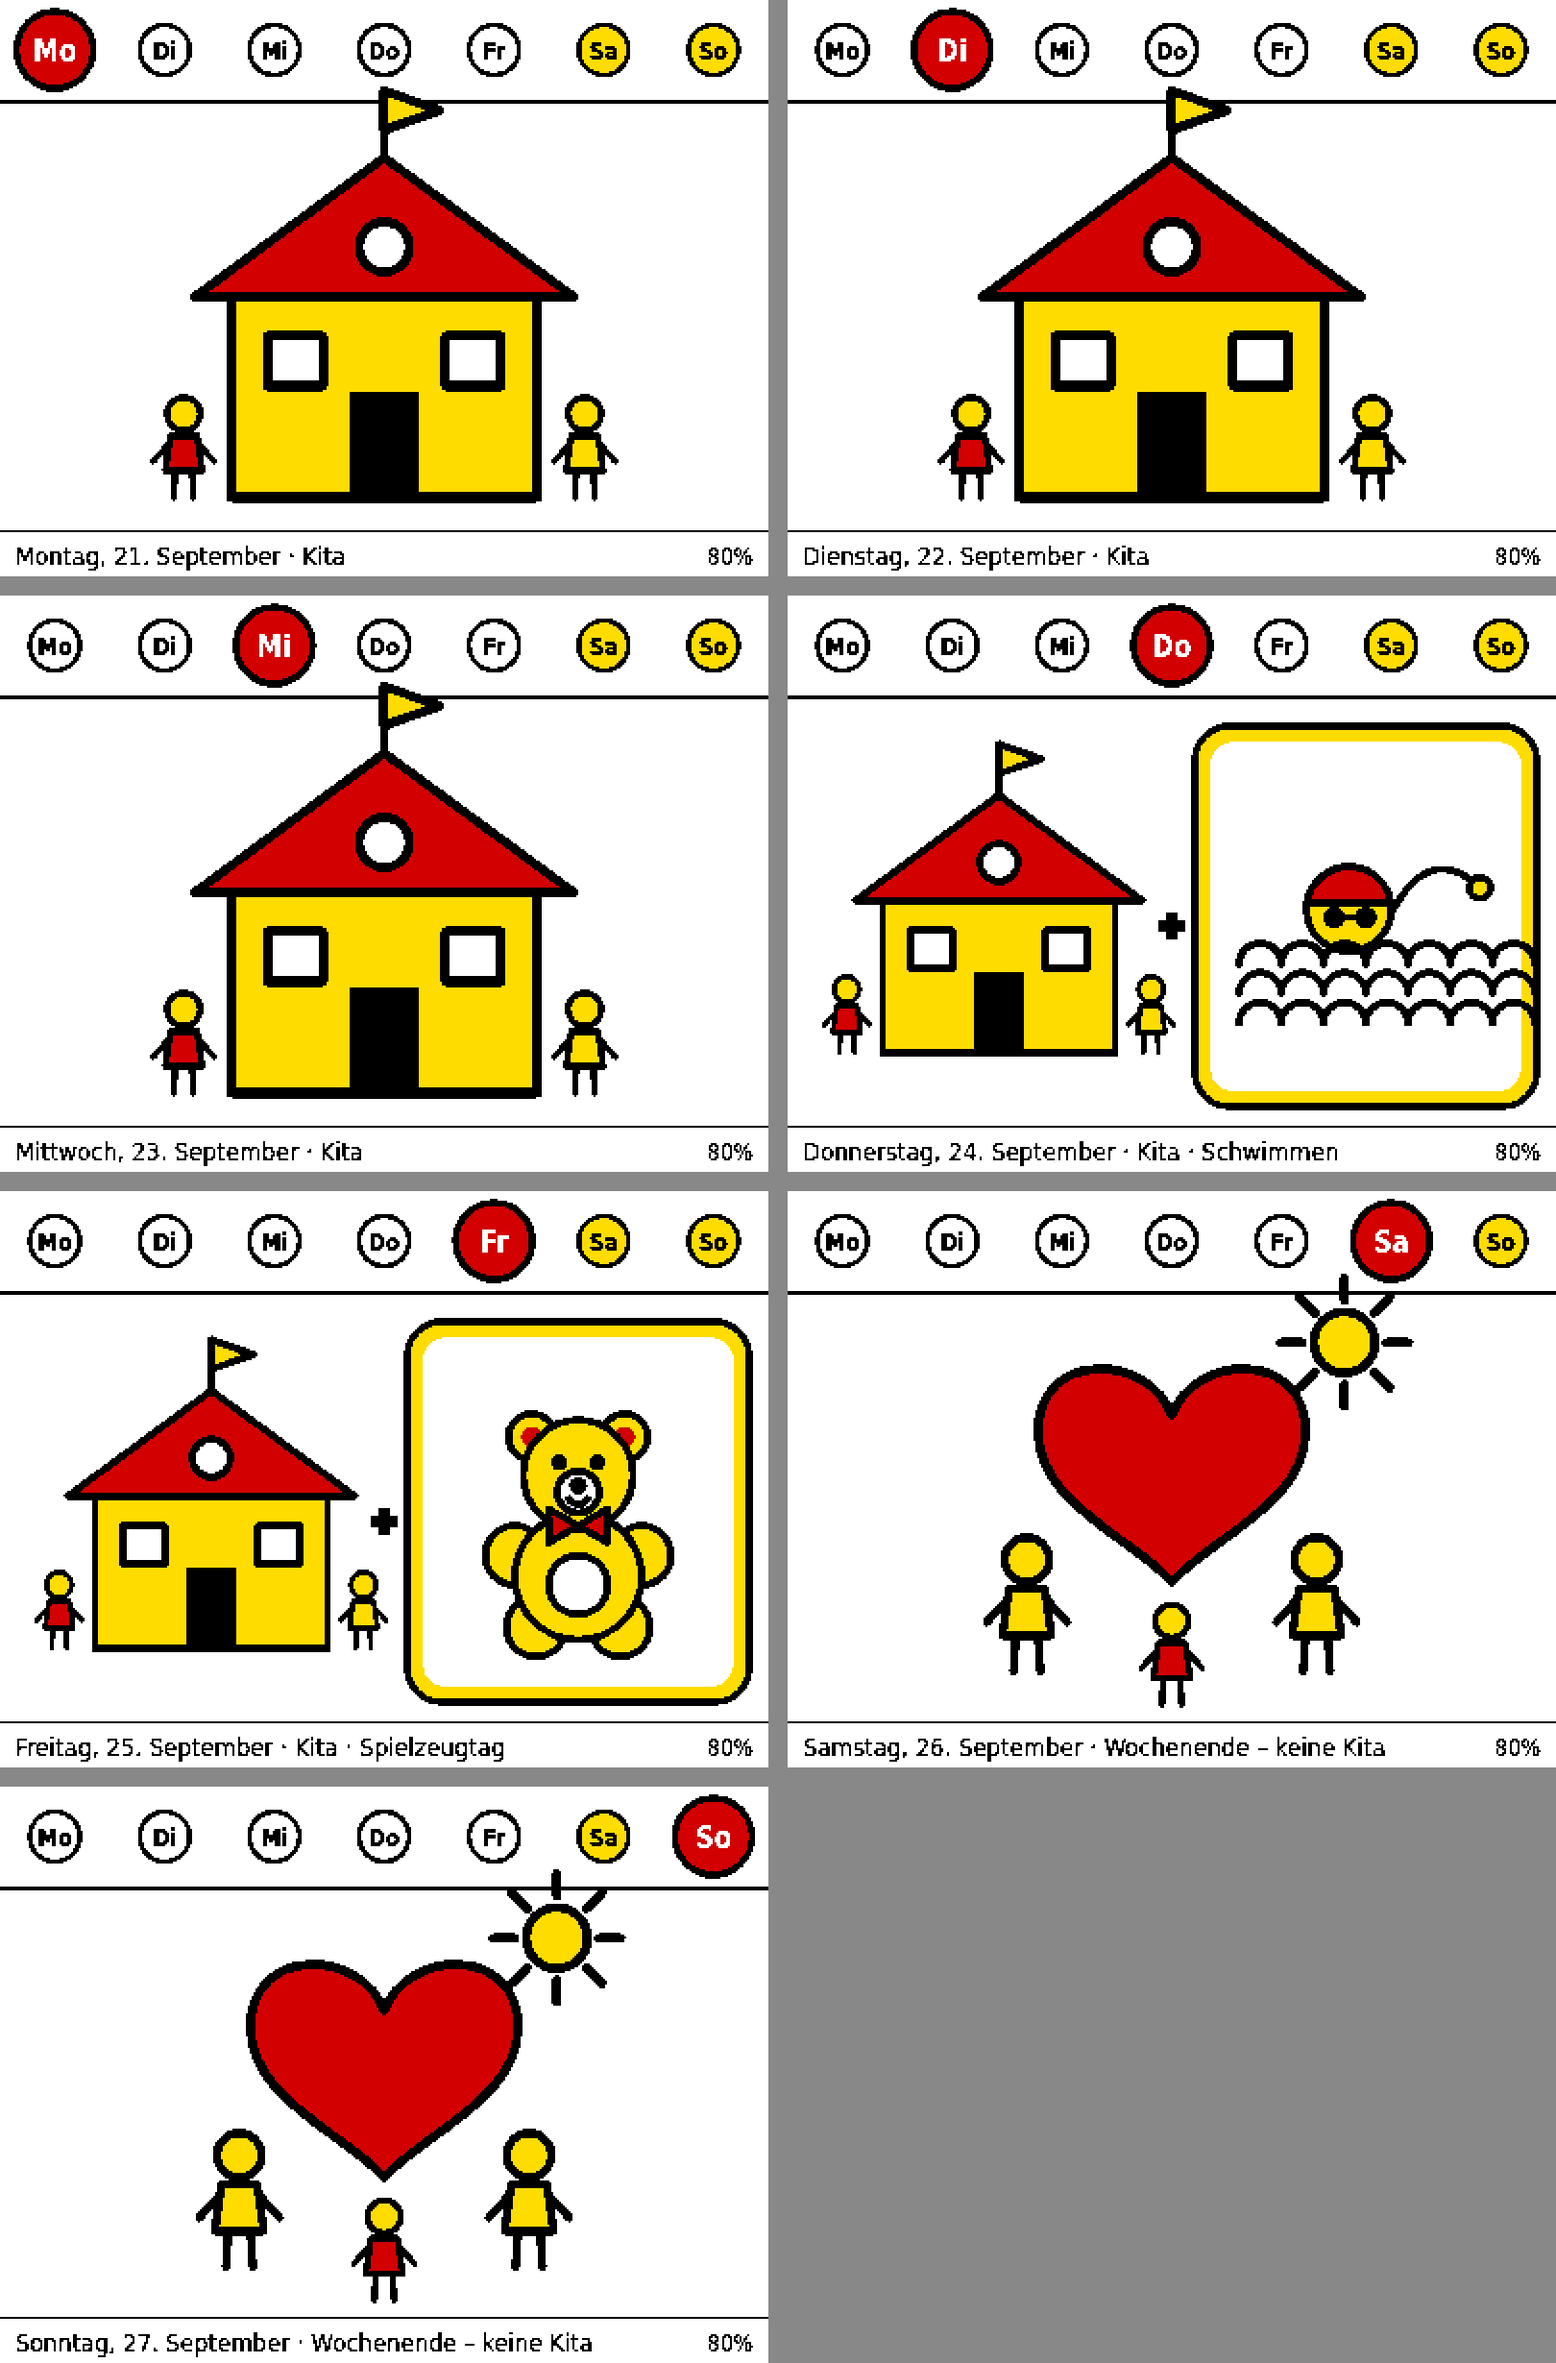
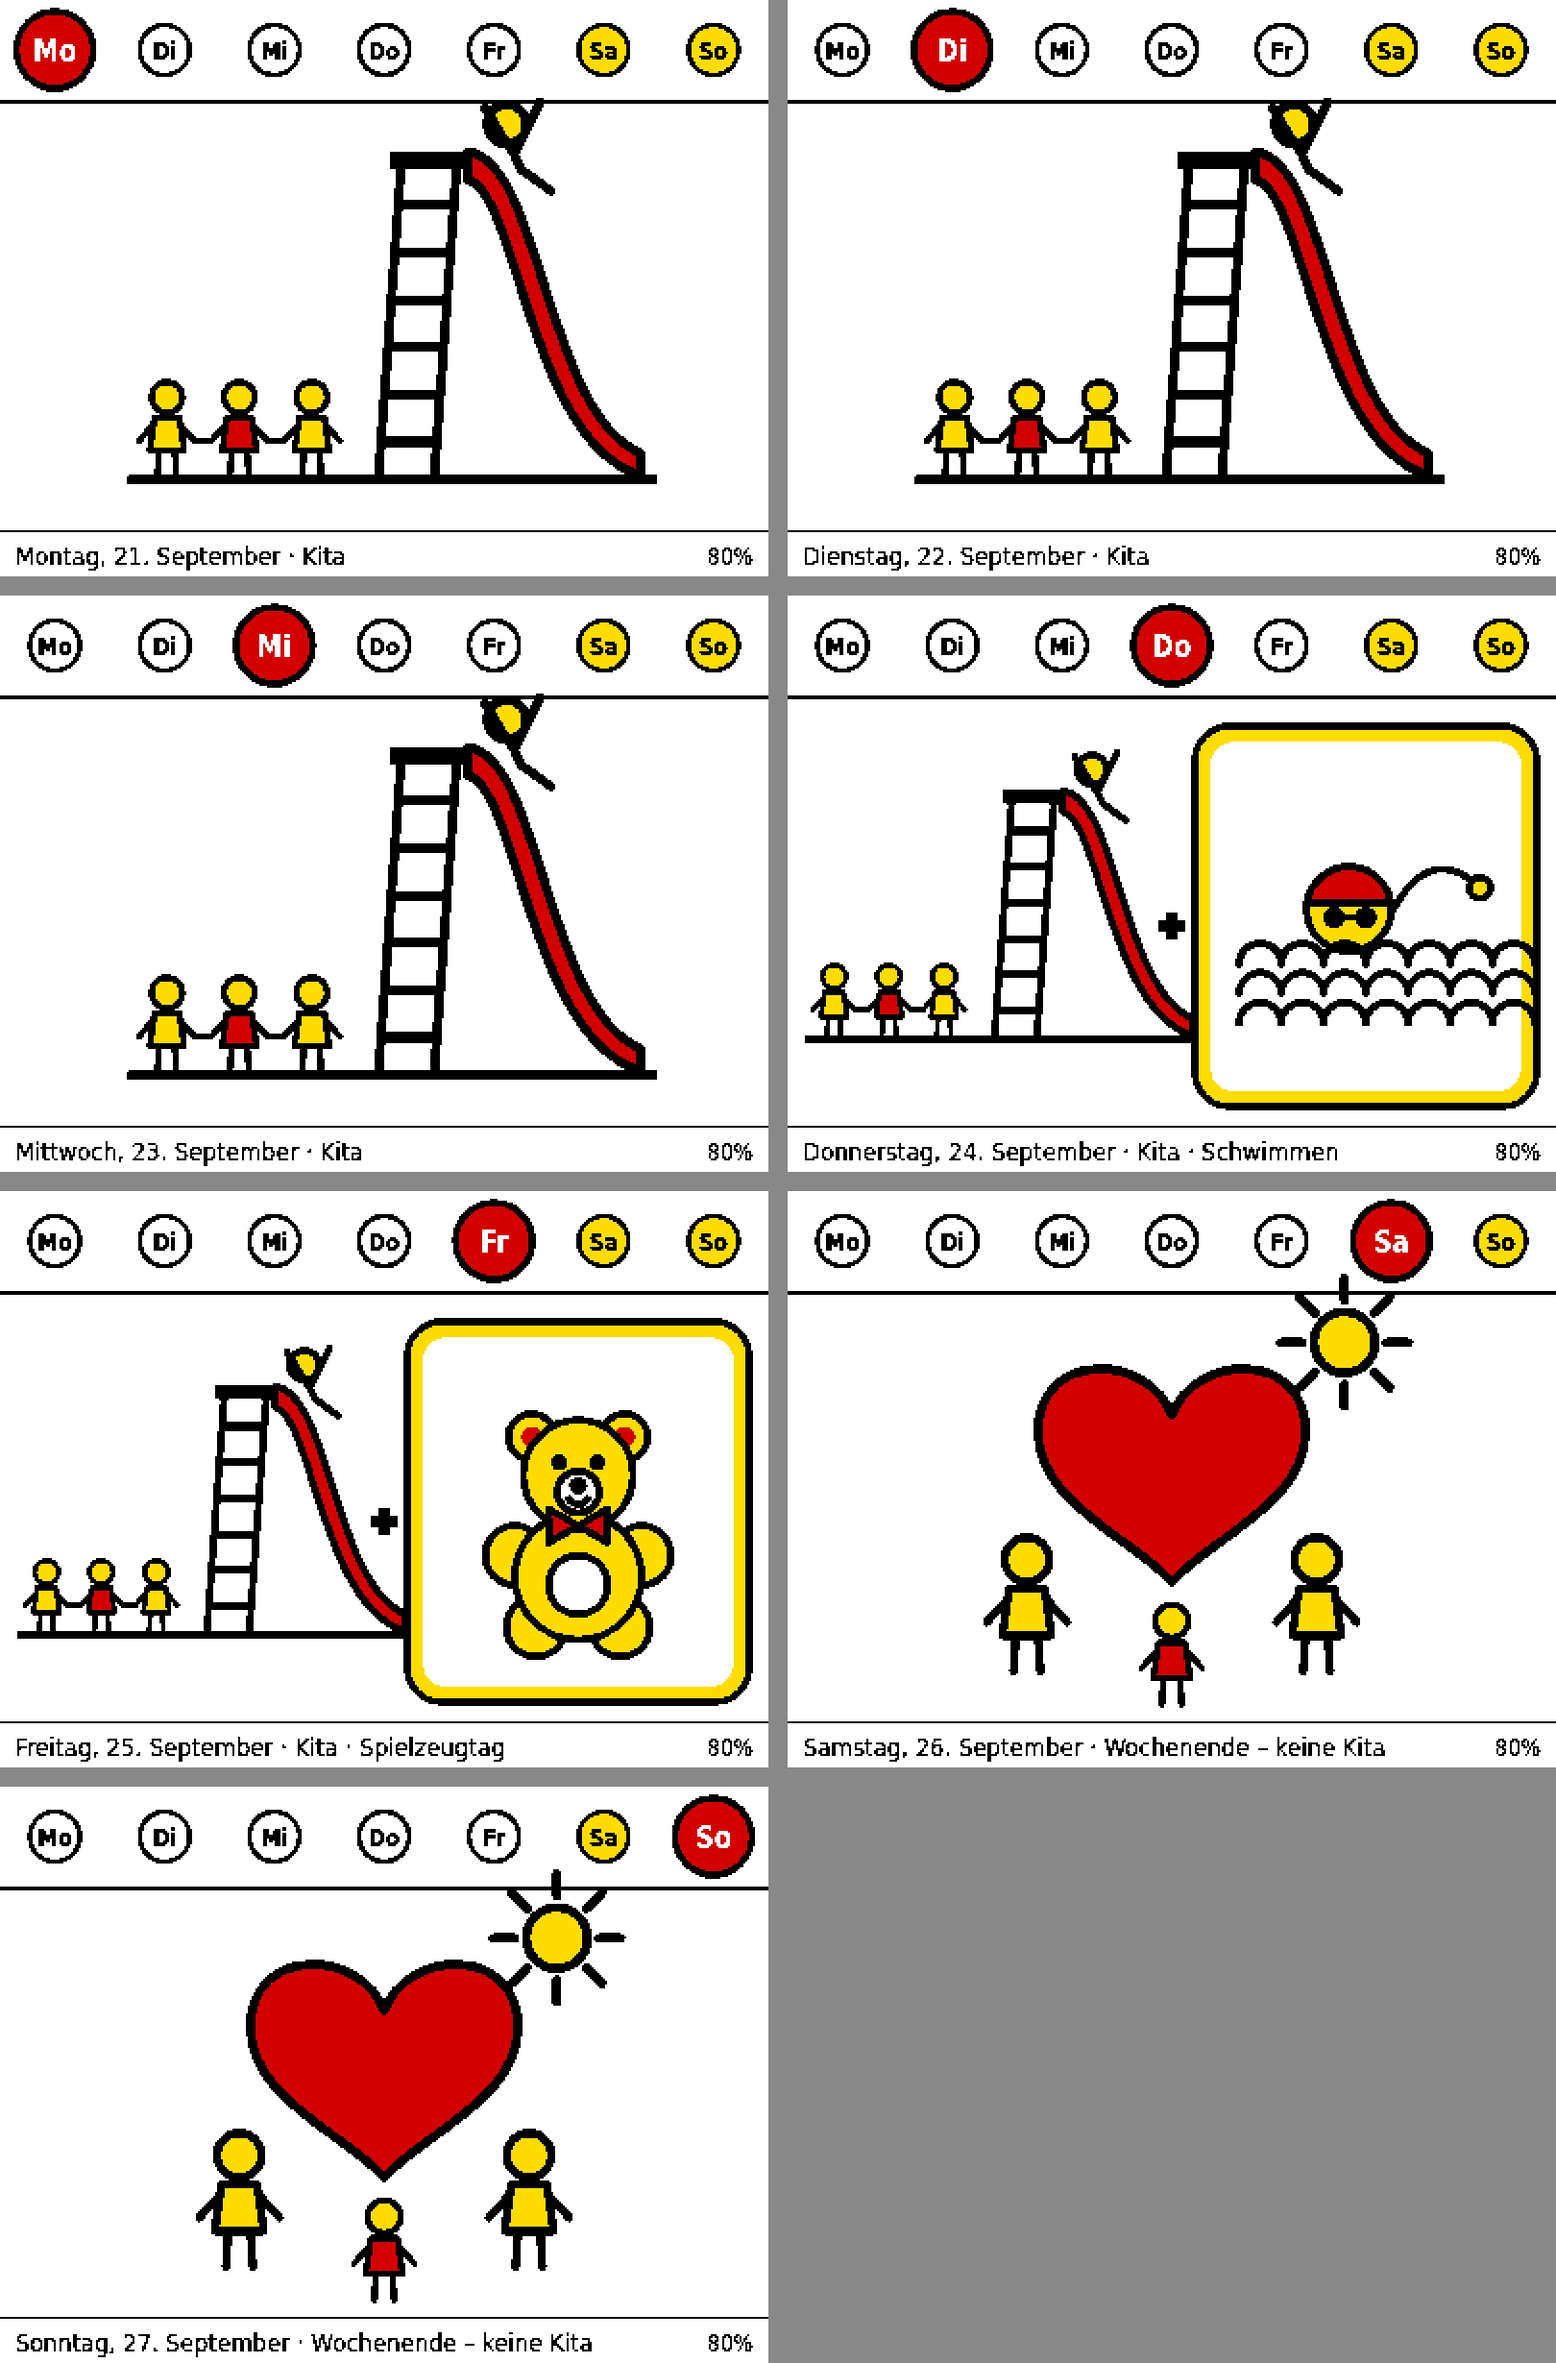
Kita-Symbol: Rutsche statt Haus (eindeutiger als Zuhause)
Claude-Session: https://claude.ai/code/session_01MFnNMxqZbyPoNyS2x8bDoc

diff --git a/lib/render.js b/lib/render.js
@@ -51,21 +51,53 @@ function person(ctx, x, y, s, shirt) {
 }
 
 // ---------------------------------------------------------------- Symbole (Mittelpunkt cx/cy, Größe ca. 150 px)
-/** Kita: Haus mit rotem Dach, Fahne und Kindern davor */
+/** Kita: Rutsche mit Leiter (ein Kind rutscht), daneben drei Kinder, die sich an den Händen halten */
 function drawKita(ctx, cx, cy, k = 1) {
   ctx.save(); ctx.translate(cx, cy); ctx.scale(k, k);
+  const ground = 52;
   line(ctx, 3);
-  ctx.fillStyle = Y; ctx.fillRect(-55, -15, 110, 75); ctx.strokeRect(-55, -15, 110, 75); // Wand
-  ctx.beginPath(); ctx.moveTo(-68, -12); ctx.lineTo(0, -62); ctx.lineTo(68, -12); ctx.closePath(); // Dach
+  // Leiter (steht auf dem Boden)
+  ctx.beginPath();
+  ctx.moveTo(-2, ground); ctx.lineTo(6, -58);
+  ctx.moveTo(18, ground); ctx.lineTo(26, -58);
+  for (let i = 0; i < 6; i++) {
+    const y = ground - 12 - i * 17;
+    const dx = ((ground - y) / (ground + 58)) * 8;
+    ctx.moveTo(-2 + dx, y); ctx.lineTo(18 + dx, y);
+  }
+  ctx.stroke();
+  ctx.fillStyle = K;
+  ctx.fillRect(2, -64, 30, 6); // Plattform
+  // Rutsche: rote Bahn von der Plattform bis zum Boden
+  ctx.beginPath();
+  ctx.moveTo(30, -64);
+  ctx.bezierCurveTo(56, -62, 58, 30, 92, ground - 8);
+  ctx.lineTo(92, ground);
+  ctx.bezierCurveTo(52, 40, 48, -50, 30, -54);
+  ctx.closePath();
   ctx.fillStyle = R; ctx.fill(); ctx.stroke();
-  ctx.fillStyle = K; ctx.fillRect(-12, 22, 24, 38); // Tür
-  ctx.fillStyle = W;
-  for (const x of [-42, 22]) { ctx.fillRect(x, 2, 20, 18); ctx.strokeRect(x, 2, 20, 18); }
-  circle(ctx, 0, -30, 9, W); // rundes Fenster im Dach
-  ctx.beginPath(); ctx.moveTo(0, -62); ctx.lineTo(0, -86); ctx.stroke(); // Fahnenmast
-  ctx.fillStyle = Y; ctx.beginPath(); ctx.moveTo(0, -86); ctx.lineTo(20, -79); ctx.lineTo(0, -72); ctx.closePath(); ctx.fill(); ctx.stroke();
-  person(ctx, -72, 30, 6, R); // Kinder
-  person(ctx, 72, 30, 6, Y);
+  // Kind sitzt oben auf der Bahn, Arme hoch
+  circle(ctx, 44, -74, 7, Y);
+  ctx.beginPath();
+  ctx.moveTo(45, -67); ctx.lineTo(49, -58); // Körper
+  ctx.moveTo(49, -58); ctx.lineTo(60, -50); // Beine die Bahn hinunter
+  ctx.moveTo(46, -64); ctx.lineTo(36, -80); // Arme hoch
+  ctx.moveTo(47, -64); ctx.lineTo(56, -82);
+  ctx.stroke();
+  // Boden
+  ctx.fillStyle = K;
+  ctx.fillRect(-92, ground, 190, 3);
+  // Drei gleich große Kinder an den Händen
+  const kids = [-78, -52, -26];
+  const shirts = [Y, R, Y];
+  kids.forEach((x, i) => person(ctx, x, ground - 28, 5.6, shirts[i]));
+  line(ctx, 2);
+  ctx.beginPath();
+  for (let i = 0; i < 2; i++) {
+    const y = ground - 28 + 5.6 * 2.8;
+    ctx.moveTo(kids[i] + 5.6 * 1.8, y); ctx.lineTo(kids[i + 1] - 5.6 * 1.8, y);
+  }
+  ctx.stroke();
   ctx.restore();
 }
 

diff --git a/README.md b/README.md
@@ -5,7 +5,7 @@ Ein Wochenplan in Bildern für Kinder, die noch nicht lesen können, auf einem *
 
 | Tag | Bild |
 | --- | --- |
-| Montag – Freitag | **Kita** (Haus mit rotem Dach, Fahne und Kindern) |
+| Montag – Freitag | **Kita** (rote Rutsche, Kinder an den Händen) |
 | Donnerstag | Kita **+ Schwimmen** (Kopf mit Badekappe über Wellen) |
 | Freitag | Kita **+ Spielzeugtag** (Teddybär) |
 | Samstag, Sonntag | **Wochenende, keine Kita** (Familie unter einem Herz) |
